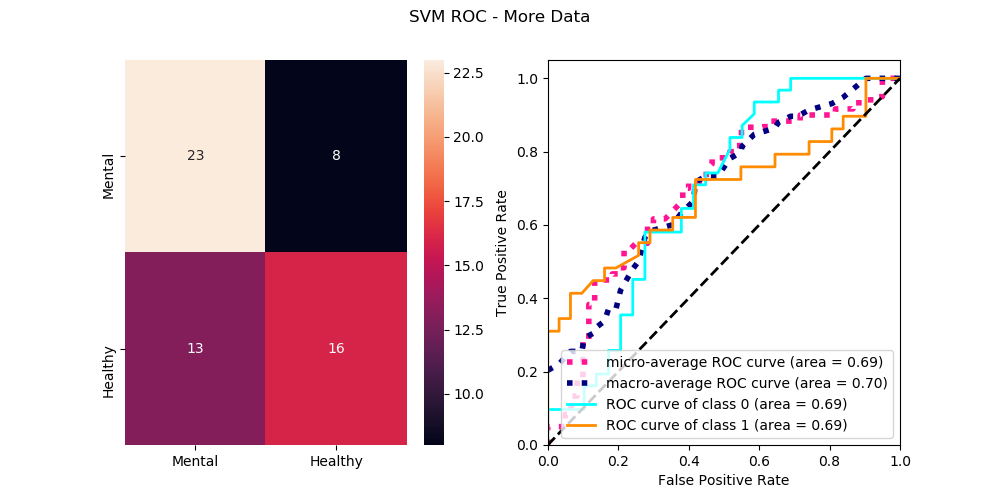
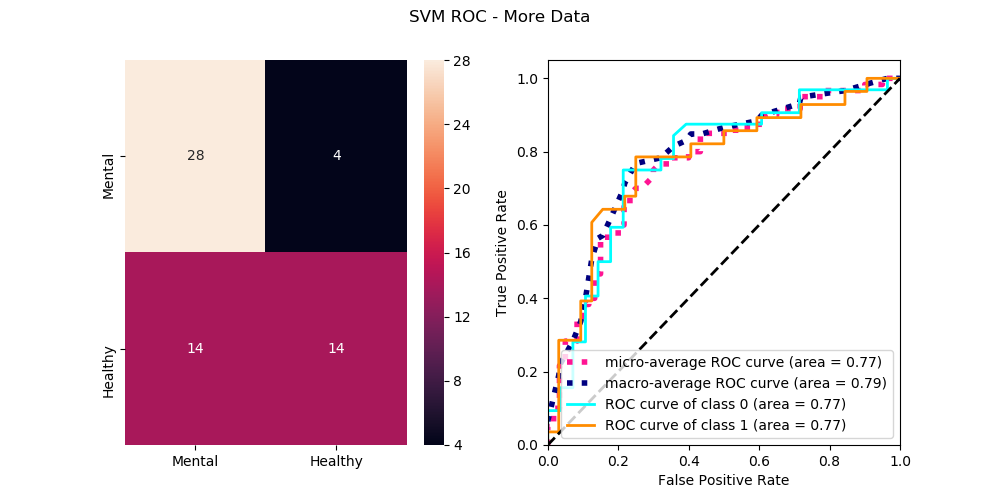
Saved SVM to file

diff --git a/classifiers/SVM.py b/classifiers/SVM.py
@@ -20,6 +20,8 @@ from sklearn.multiclass import OneVsRestClassifier
 from scipy import interp
 from sklearn.ensemble import RandomForestClassifier
 
+from joblib import dump, load
+
 class ClassifySVM:
     def __init__(self, features, labels, X_test, X_train, y_test, y_train):
         self.paths = list(())
@@ -59,13 +61,14 @@ class ClassifySVM:
 
     def svmTrain(self, toPredict):
         print("Training")
-        self.svclassifier = SVC(C=10, cache_size=200, class_weight=None, coef0=0.0,
+        '''self.svclassifier = SVC(C=10, cache_size=200, class_weight=None, coef0=0.0,
     decision_function_shape='ovo', degree=3, gamma=0.01, kernel='rbf',
     max_iter=-1, probability=True, random_state=None, shrinking=True, tol=0.001,
-    verbose=False)
+    verbose=False)'''
         #self.svclassifier = self.findBestParameters(self.svclassifier) 
-        self.svclassifier.fit(self.X_train, self.y_train)
+        #self.svclassifier.fit(self.X_train, self.y_train)
         #toPredict.reshape(-1,1)
+        self.svclassifier = load('bestSVM.joblib')
         toPredict = np.asarray(toPredict)
         print(toPredict.shape)
         y_pred = self.svclassifier.predict(toPredict) 
@@ -82,6 +85,7 @@ class ClassifySVM:
         
         #self.svclassifier = self.findBestParameters(self.svclassifier)  
         self.svclassifier.fit(self.X_train, self.y_train)
+        dump(self.svclassifier, 'bestSVM.joblib')
         y_pred = self.svclassifier.predict_proba(self.X_test)
         y_pred2 = self.svclassifier.predict(self.X_test)
     

diff --git a/classifiers/ReadIn_Data.py b/classifiers/ReadIn_Data.py
@@ -267,8 +267,8 @@ class Classify:
 #path = str(".\DataSets\Mental_Illness_Survey_Matched_Converted.csv")
 mainRun = Classify("..\DataSets\CensusData_Cleaned.csv", "")
 #mainRun.classifySVM()
-#mainRun.getAll_prov_RF()
-mainRun.classifyRF()
+mainRun.getAll_prov()
+#mainRun.classifyRF()
 
 
 
